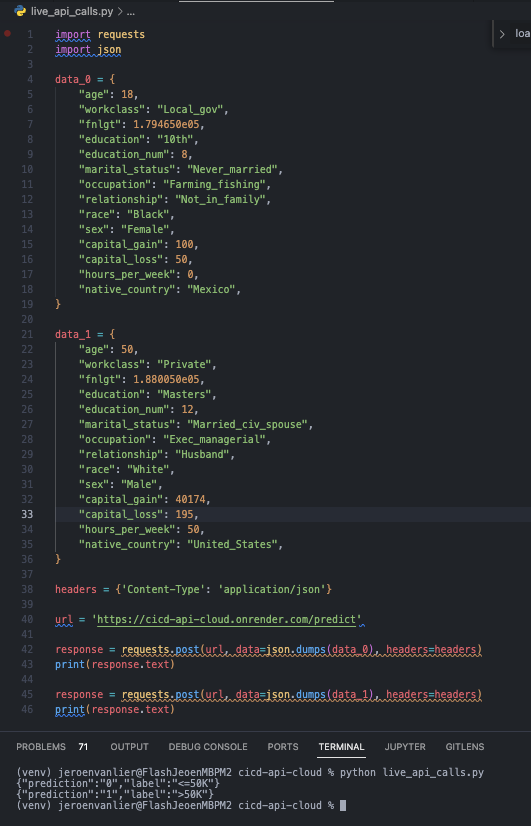
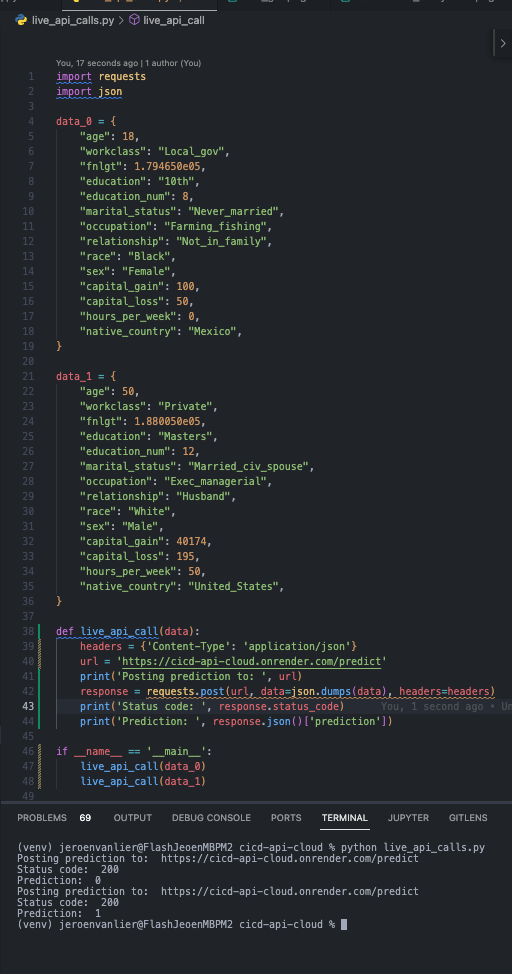
resubmission updates

diff --git a/main.py b/main.py
@@ -1,5 +1,5 @@
 from fastapi import FastAPI, HTTPException
-from pydantic import BaseModel
+from pydantic import BaseModel, Field
 import pandas as pd
 
 from src.ml.training import infer_ml, load_model
@@ -13,20 +13,20 @@ app = FastAPI(
 
 
 class IncomePrediction(BaseModel):
-    workclass: str
-    education: str
-    marital_status: str
-    occupation: str
-    relationship: str
-    race: str
-    sex: str
-    native_country: str
-    age: int
-    fnlgt: int
-    education_num: int
-    capital_gain: int
-    capital_loss: int
-    hours_per_week: int
+    workclass: str = Field(..., example="Private")
+    education: str = Field(..., example="Masters")
+    marital_status: str = Field(..., example="Married_civ_spouse")
+    occupation: str = Field(..., example="Exec_managerial")
+    relationship: str = Field(..., example="Husband")
+    race: str = Field(..., example="White")
+    sex: str = Field(..., example="Male")
+    native_country: str = Field(..., example="United_States")
+    age: int = Field(..., example=50)
+    fnlgt: int = Field(..., example=77516)
+    education_num: int = Field(..., example=13)
+    capital_gain: int = Field(..., example=2174)
+    capital_loss: int = Field(..., example=0)
+    hours_per_week: int = Field(..., example=40)
 
 
 def catagorical_check():

diff --git a/live_api_calls.py b/live_api_calls.py
@@ -35,12 +35,14 @@ data_1 = {
     "native_country": "United_States",
 }
 
-headers = {'Content-Type': 'application/json'}
+def live_api_call(data):
+    headers = {'Content-Type': 'application/json'}
+    url = 'https://cicd-api-cloud.onrender.com/predict'
+    print('Posting prediction to: ', url)
+    response = requests.post(url, data=json.dumps(data), headers=headers)
+    print('Status code: ', response.status_code)
+    print('Prediction: ', response.json()['prediction'])
 
-url = 'https://cicd-api-cloud.onrender.com/predict' 
-
-response = requests.post(url, data=json.dumps(data_0), headers=headers)
-print(response.text)
-
-response = requests.post(url, data=json.dumps(data_1), headers=headers)
-print(response.text)
+if __name__ == '__main__':
+    live_api_call(data_0)
+    live_api_call(data_1)

diff --git a/model/model_card.md b/model/model_card.md
@@ -1,5 +1,7 @@
 # Model Card
 
+This model was developed for the Udacity Nanodegree on Machine Learning DevOps Engineer. 
+
 ## Model Details
 Author: Jeroen van Lier
 Model: Random Forest
@@ -8,15 +10,19 @@ Parameters: Used the default hyperparameters in scikit-learn 1.3.2
 ## Intended Use
 The model is intended to be used to predict whether a person makes over 50K a year.
 
-## Data
+## Training Data
 The Data was downloaded from the UCI Machine Learning Repository. https://archive.ics.uci.edu/dataset/20/census+income
 
 A model pipeline was created to process the data which includes the following steps:
-Numerical data was scaled using the StandardScaler 
-Catagorical data was one-hot encoded using the OneHotEncoder 
-Label data was encoded using the LabelEncoder
+* Numerical data was scaled using the StandardScaler 
+* Catagorical data was one-hot encoded using the OneHotEncoder 
+* Label data was encoded using the LabelEncoder
+
+## Evaluation Data
+The data was split into a training set and a test set using a 80/20 split for model evaluation.
 
 ## Metrics
+The model was evaluated using the following metrics:
 Precision: 0.7211
 Recall: 0.6195
 FBeta: 0.6664
@@ -26,4 +32,7 @@ F1: 0.6664
 The metrics for each of slice of the catagorical columns are shown in model/slice_output.txt
 
 ## Ethical Considerations
-This model uses income data, which may reflect societal biases. 
+This model uses income data, which may reflect societal biases. Please see the UCI Machine Learning Repository for more information about the data to understand the potential bias of the data.
+
+# Caveats and Recommendations
+The model's predictions are based on historical data, which may not accurately represent current or future trends. Additionally, the model's performance might vary across different demographic groups. Please refer to the model/slice_output.txt file for more information about the model's performance on different demographic groups.
